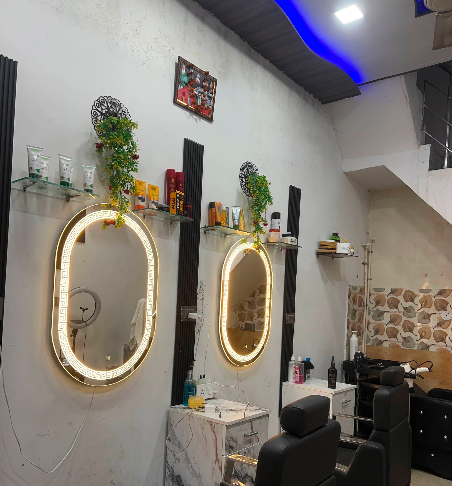
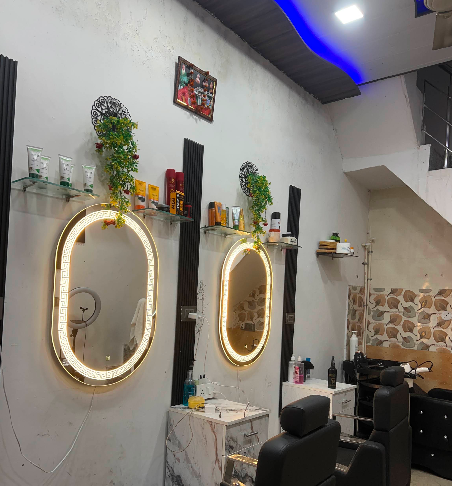
gallery images

diff --git a/artifacts/VN-Beauty-Salon-Academy/src/components/sections/Gallery.tsx b/artifacts/VN-Beauty-Salon-Academy/src/components/sections/Gallery.tsx
@@ -4,8 +4,8 @@ import { useInView } from 'react-intersection-observer';
 import { X, ChevronLeft, ChevronRight } from 'lucide-react';
 
 const galleryImages = [
-  { id: 1, src: '/images/gallery-1.jpg', size: 'large' },
-  { id: 2, src: '/images/gallery-2.jpg', size: 'small' },
+  { id: 1, src: '/images/gallery-1.png', size: 'large' },
+  { id: 2, src: '/images/gallery-2.png', size: 'small' },
   { id: 3, src: '/images/gallery-3.jpg', size: 'small' },
   { id: 4, src: '/images/gallery-4.jpg', size: 'medium' },
   { id: 5, src: '/images/gallery-5.jpg', size: 'large' },
